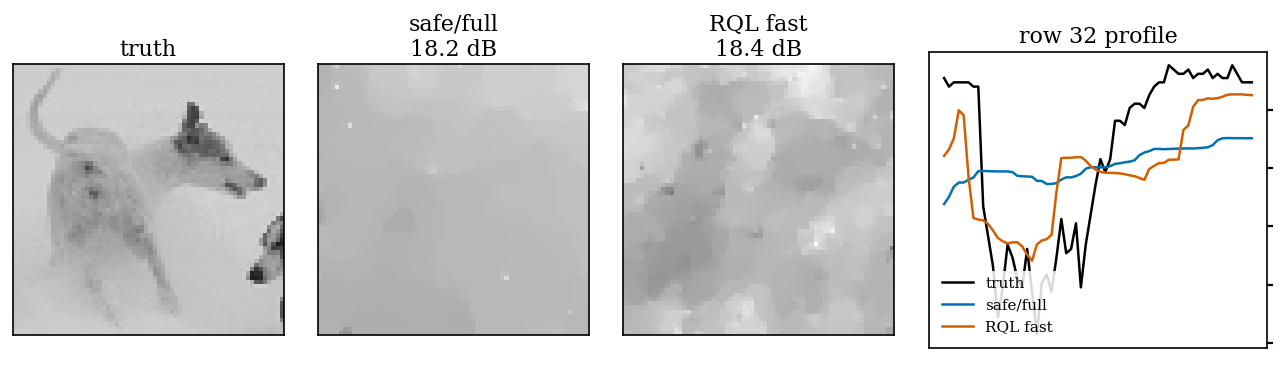
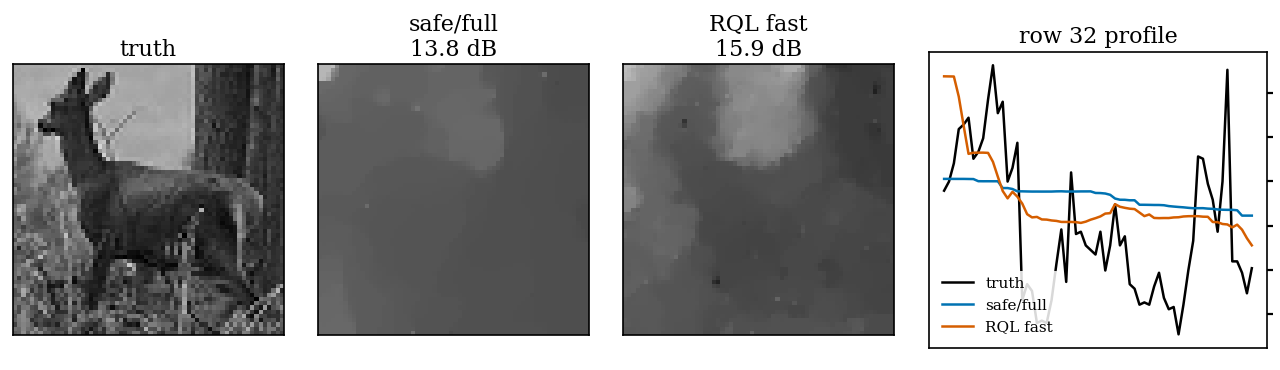
figs: nat-pair subject -> stl_16 by disclosed median rule
User flagged the stl_02 pair as visually uninformative (correct — that
scene is radiometry-only). Replaced by a RULE, not aesthetics: the STL
photo closest to the cohort median fixed-dwell gain (+1.46 vs median
+1.44), disclosed in the caption as post-hoc display selection. stl_02
remains the frozen Study-1 main-figure subject (untouched). New pair
shows visible structure recovery (13.8 -> 15.9 dB) + profile tracking.

diff --git a/paper/main_oe.tex b/paper/main_oe.tex
@@ -364,15 +364,17 @@ benefit of high-flux operation is substantial.
 \begin{figure}[t]
   \centering
   \includegraphics[width=\linewidth]{figs/fig_nat_pair.pdf}
-  \caption{Natural-cohort representative (frozen prereg subject
-  \texttt{stl\_02}):\ truth, safe operating point at full dwell
-  ($18.15$~dB), and high-flux RQL at equal dwell ($18.38$~dB). This
-  cohort is prior-limited at the studied photon budget:\ reconstructions
-  are radiometrically accurate but spatially smoothed, and the benefit of
-  high flux is radiometric. The center-row intensity profile (right,
-  frozen row $y = 32$) makes it visible:\ the safe arm is nearly flat,
-  while the high-flux arm tracks the scene's coarse intensity excursion
-  at equal dwell.}
+  \caption{Natural-cohort representative:\ truth, safe operating point at
+  full dwell ($13.8$~dB), and high-flux RQL at equal dwell ($15.9$~dB).
+  Display subject selected by rule (disclosed):\ the photograph whose
+  fixed-dwell gain lies closest to the cohort median of $+1.44$~dB
+  (\texttt{stl\_16}, $+1.46$~dB) --- a median representative, not a best
+  case. The cohort is prior-limited at the studied photon budget:\
+  reconstructions are spatially smoothed and the high-flux benefit is
+  radiometric, visible both in the recovered coarse structure and in the
+  center-row intensity profile (right):\ the safe arm is nearly flat
+  while the high-flux arm tracks the scene's intensity excursions at
+  equal dwell.}
   \label{fig:natpair}
 \end{figure}
 

diff --git a/code/round63/figs/fig_nat_pair.py b/code/round63/figs/fig_nat_pair.py
@@ -37,7 +37,13 @@ SIDE = 64
 M = 4096
 PATTERN = "bern50"
 SEED = 0
-IMAGE = "stl_02"
+# Subject selection RULE (post-hoc display selection, disclosed in the
+# caption): the STL photo whose fixed-dwell gain is closest to the
+# cohort median (+1.44 dB); ties toward the larger gain -> stl_16
+# (+1.46). stl_02 remains the FROZEN subject of the Study-1 main
+# figure; this standalone natural-pair display is the R9 addition
+# whose subject was never frozen.
+IMAGE = "stl_16"
 IMAGESET = "conf"
 
 # (arm, rho, nu, label)